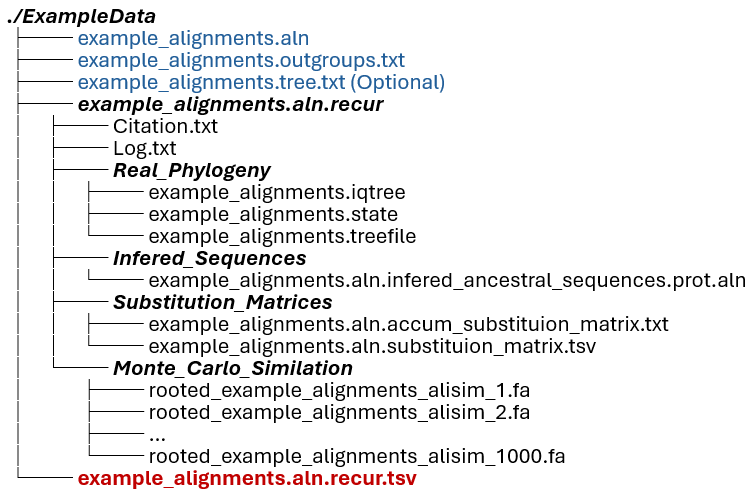
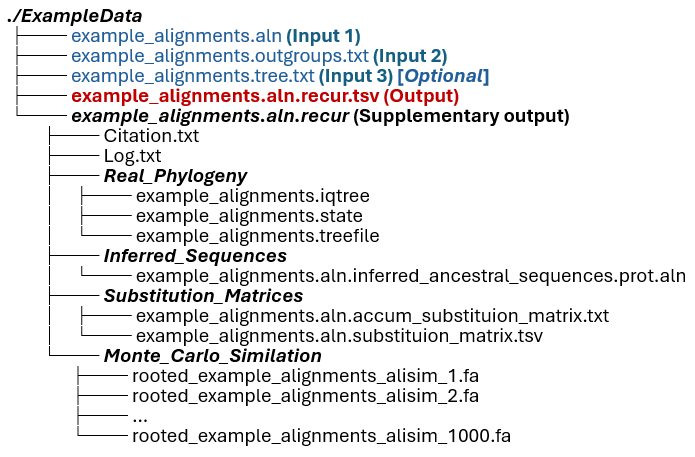
refactor: fixed typo, update the output structure diagram

Changed region(s): [[0.0, 0.0, 0.9971, 0.9803], [0.0, 0.2451, 0.0302, 0.9497]]

diff --git a/src/recur/utils/files.py b/src/recur/utils/files.py
@@ -134,27 +134,27 @@ class FileHandler(object):
         return mut_matrix_file 
 
     def GetCombinedDNASeqsFN(self) -> str:
-        if self.GetInferedSeqsDir() is None: 
-            raise Exception("No Infered_Sequences directory.")
-        combined_seqs_file = os.path.join(self.GetInferedSeqsDir(), f"{self.gene_of_interest}.combined_dna_sequences.aln")
+        if self.GetInferredSeqsDir() is None: 
+            raise Exception("No Inferred_Sequences directory.")
+        combined_seqs_file = os.path.join(self.GetInferredSeqsDir(), f"{self.gene_of_interest}.combined_dna_sequences.aln")
         return combined_seqs_file 
     
     def GetNodeDNASeqsFN(self) -> str:
-        if self.GetInferedSeqsDir() is None: 
-            raise Exception("No Infered_Sequences directory.")
-        combined_seqs_file = os.path.join(self.GetInferedSeqsDir(), f"{self.gene_of_interest}.infered_ancestral_sequences.dna.aln")
+        if self.GetInferredSeqsDir() is None: 
+            raise Exception("No Inferred_Sequences directory.")
+        combined_seqs_file = os.path.join(self.GetInferredSeqsDir(), f"{self.gene_of_interest}.inferred_ancestral_sequences.dna.aln")
         return combined_seqs_file 
 
     def GetCombinedProtSeqsFN(self) -> str:
-        if self.GetInferedSeqsDir() is None: 
-            raise Exception("No Infered_Sequences directory.")
-        combined_seqs_file = os.path.join(self.GetInferedSeqsDir(), f"{self.gene_of_interest}.combined_protein_sequences.aln")
+        if self.GetInferredSeqsDir() is None: 
+            raise Exception("No Inferred_Sequences directory.")
+        combined_seqs_file = os.path.join(self.GetInferredSeqsDir(), f"{self.gene_of_interest}.combined_protein_sequences.aln")
         return combined_seqs_file 
 
     def GetNodeProtSeqsFN(self) -> str:
-        if self.GetInferedSeqsDir() is None: 
-            raise Exception("No Infered_Sequences directory.")
-        combined_seqs_file = os.path.join(self.GetInferedSeqsDir(), f"{self.gene_of_interest}.infered_ancestral_sequences.prot.aln")
+        if self.GetInferredSeqsDir() is None: 
+            raise Exception("No Inferred_Sequences directory.")
+        combined_seqs_file = os.path.join(self.GetInferredSeqsDir(), f"{self.gene_of_interest}.inferred_ancestral_sequences.prot.aln")
         return combined_seqs_file 
 
     def GetRecurrenceListFN(self, recDir: Optional[str] = None) -> str:
@@ -179,8 +179,8 @@ class FileHandler(object):
         if not os.path.exists(d): os.mkdir(d)
         return d
 
-    def GetInferedSeqsDir(self) -> str:
-        d = self.rd1 + "Infered_Sequences" + os.sep
+    def GetInferredSeqsDir(self) -> str:
+        d = self.rd1 + "Inferred_Sequences" + os.sep
         if not os.path.exists(d): os.mkdir(d)
         return d
 
